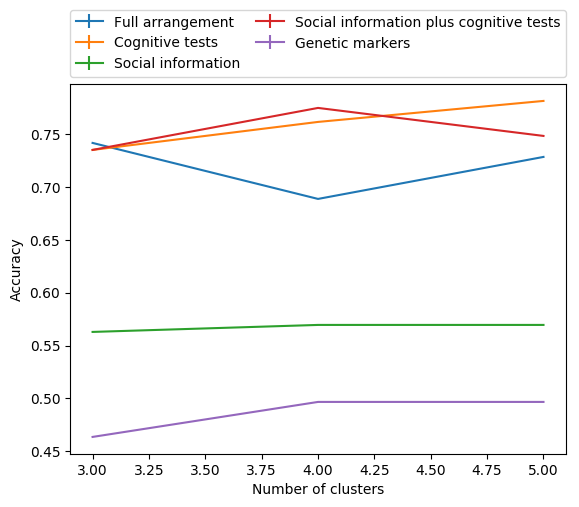
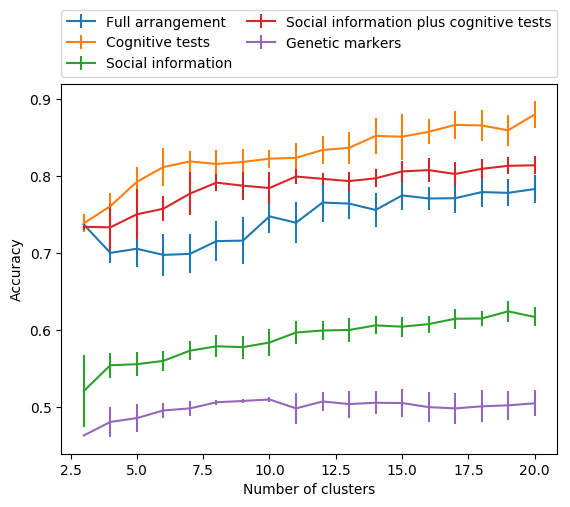
latest results

diff --git a/plot_graph.py b/plot_graph.py
@@ -11,7 +11,7 @@ import matplotlib.pyplot as plt
 
 min_k = 3
 max_k = 20
-sample_size = 30
+sample_size = 20
 sample_range = range(sample_size)
 sources = [HuocDataset, CognitiveTestsDataset, SocialInfoDataset, SocialAndTestsDataset, GeneticMarkersDataset]
 k_range = range(min_k, max_k + 1)
